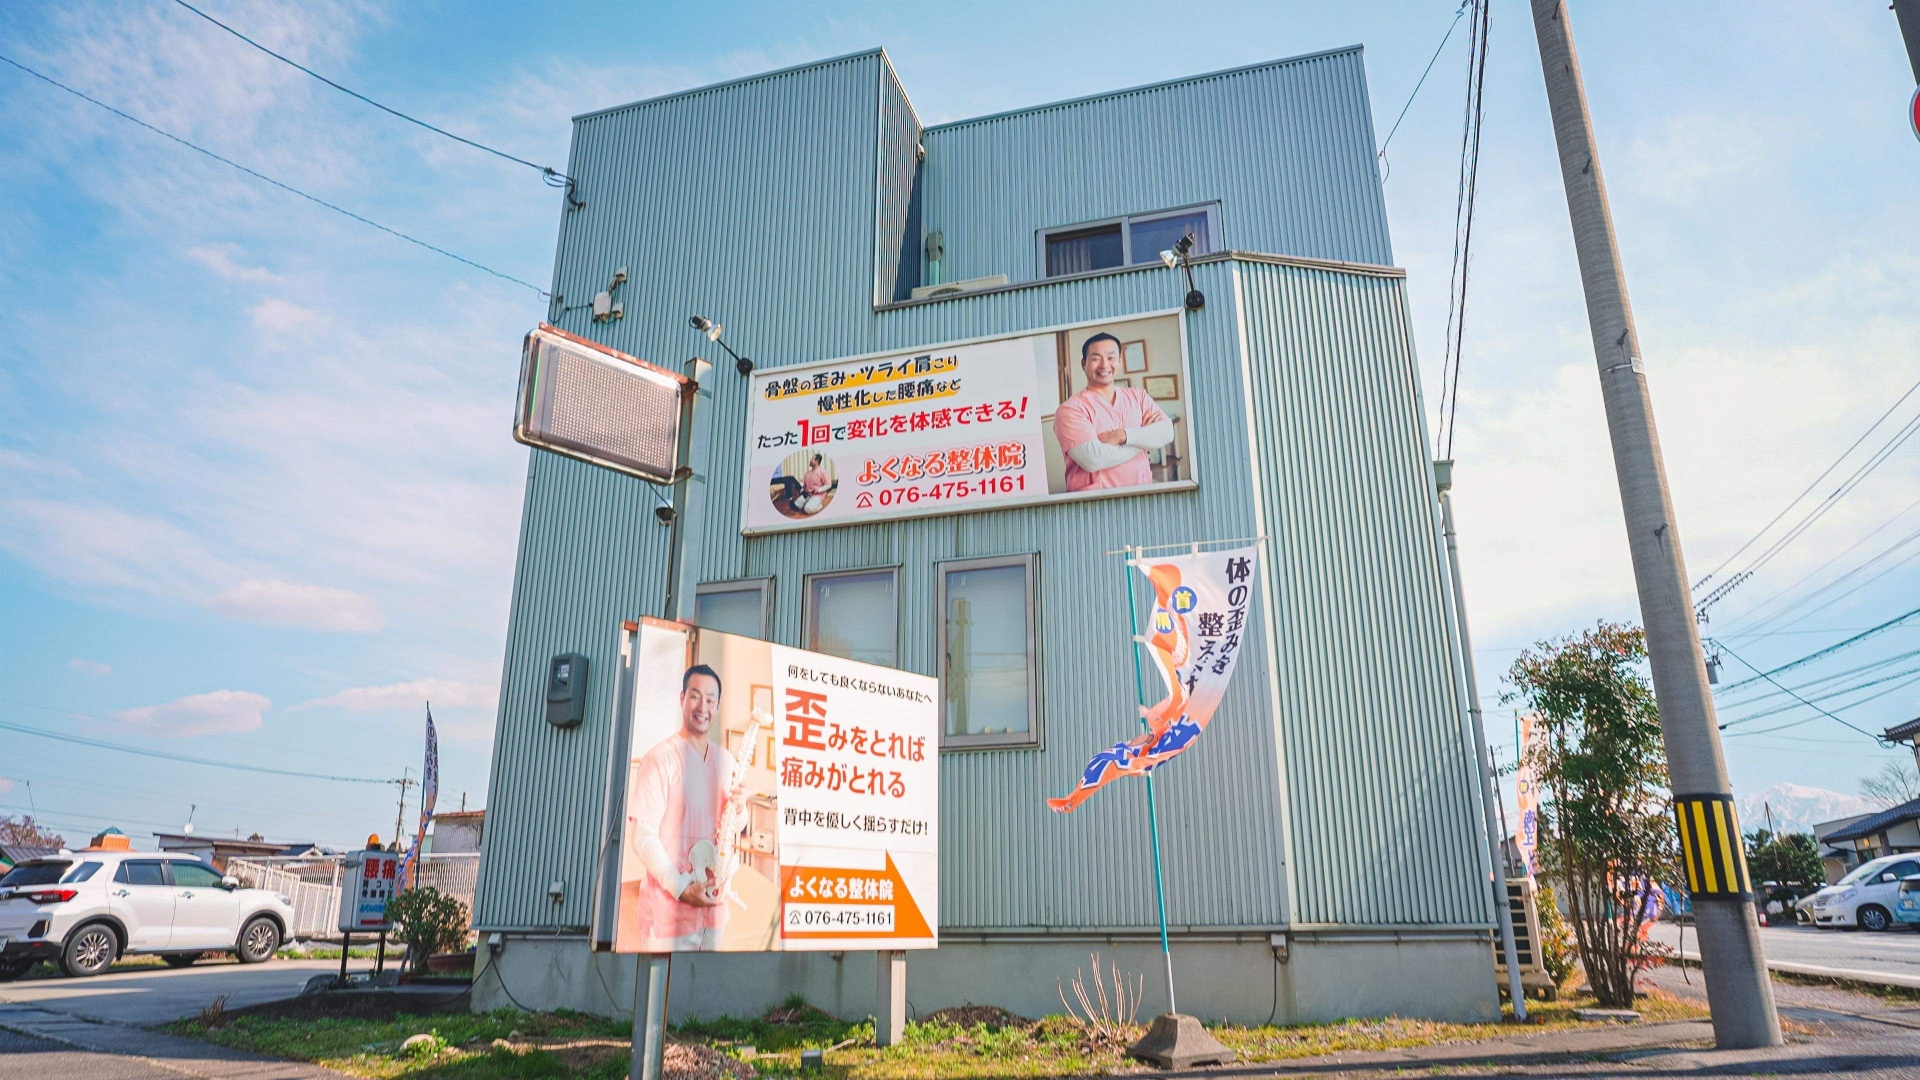
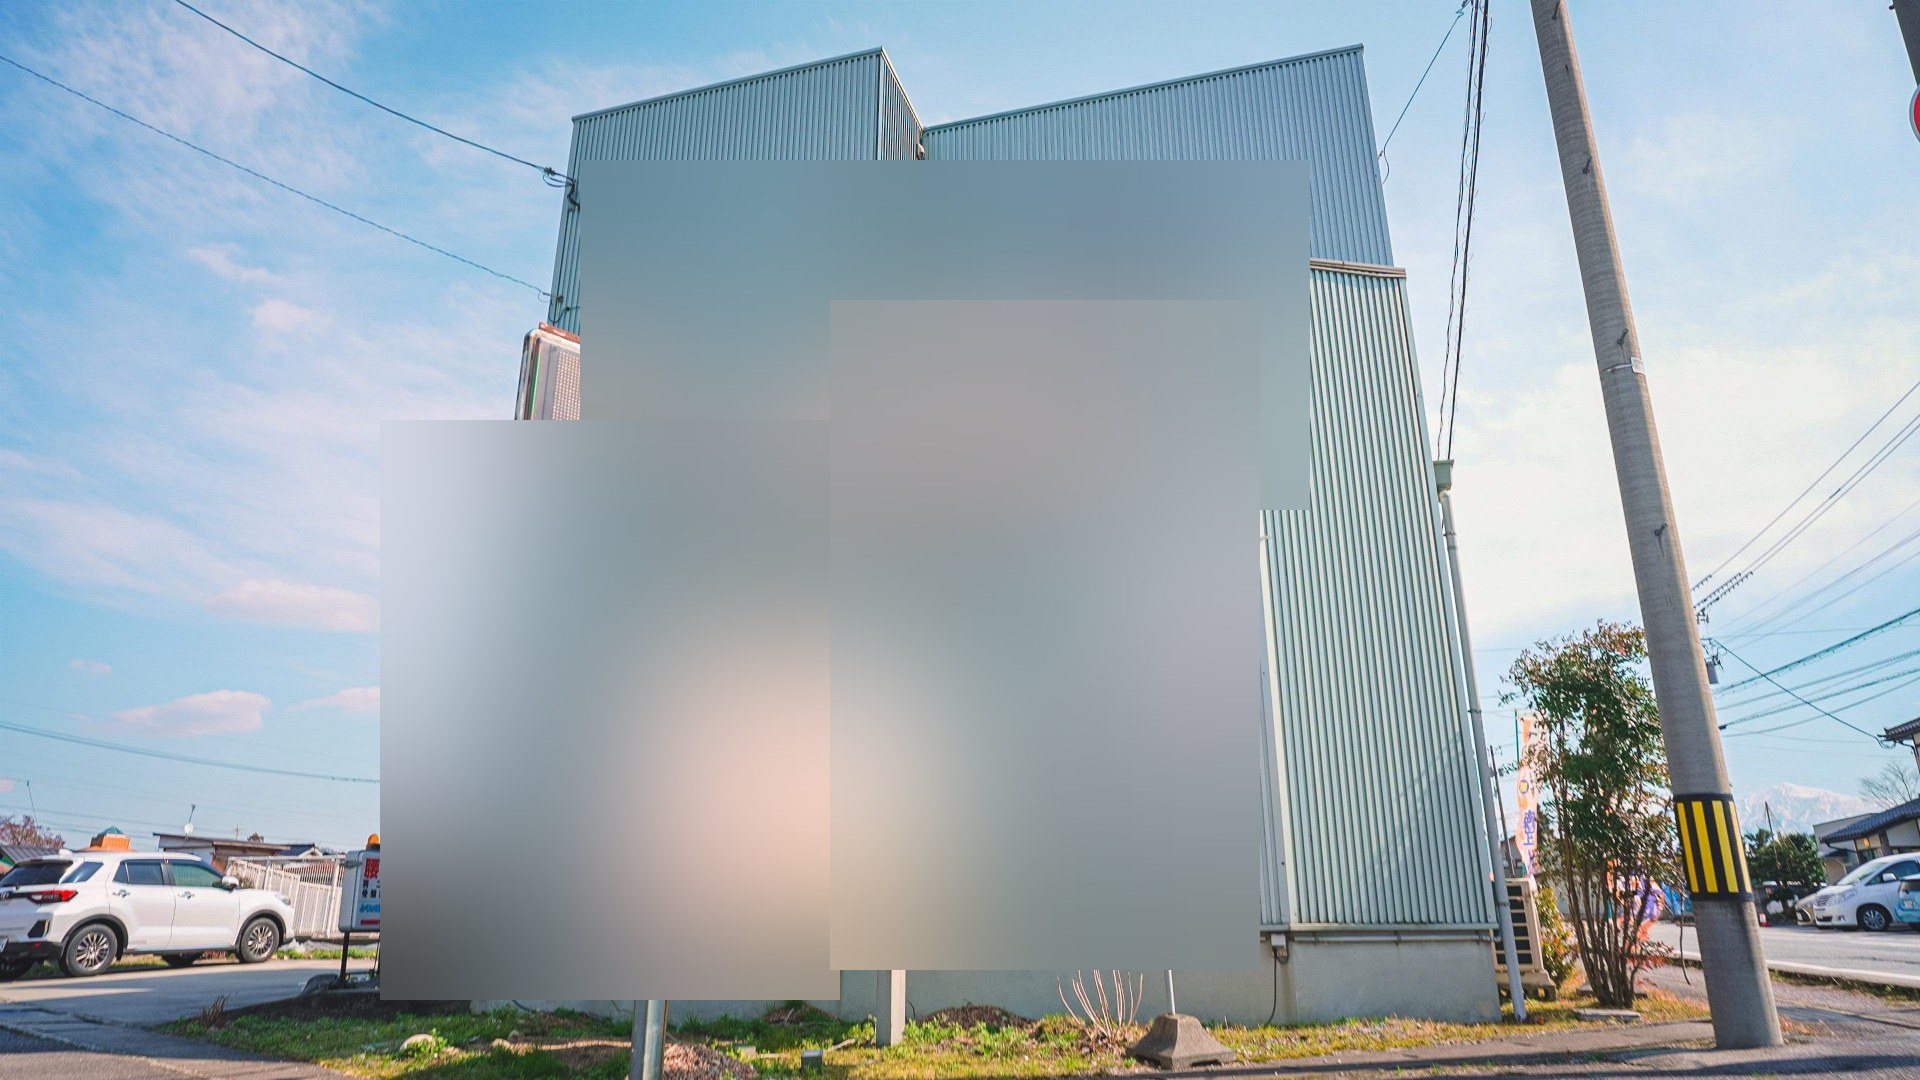
Fix Google Maps embed and strengthen exterior sign blur
- Replace generic address query iframe with name+address query so the
  embed resolves to the よくなる整体院 business listing on Google Maps
  (verified via redirect returning place_id containing "よくなる整体").
- Expand and strengthen blur regions on exterior.jpeg to fully obscure
  all three promotional signs (upper banner with photo+phone, left
  ground sign, vertical flag). Adds pixelation pass on top of Gaussian
  blur so no regulation-sensitive text remains legible.

Changed region(s): [[0.1875, 0.1528, 0.6875, 0.9472]]

diff --git a/index.html b/index.html
@@ -1733,7 +1733,7 @@ body{padding-bottom:68px}
 
     <div class="map">
       <iframe
-        src="https://maps.google.com/maps?q=%E5%AF%8C%E5%B1%B1%E7%9C%8C%E6%BB%91%E5%B7%9D%E5%B8%82%E4%B8%8A%E5%B0%8F%E6%B3%891818-1&output=embed"
+        src="https://maps.google.com/maps?q=%E3%82%88%E3%81%8F%E3%81%AA%E3%82%8B%E6%95%B4%E4%BD%93%E9%99%A2+%E5%AF%8C%E5%B1%B1%E7%9C%8C%E6%BB%91%E5%B7%9D%E5%B8%82%E4%B8%8A%E5%B0%8F%E6%B3%891818-1&hl=ja&z=16&output=embed"
         loading="lazy" referrerpolicy="no-referrer-when-downgrade" title="よくなる整体院 地図"></iframe>
     </div>
   </div>
